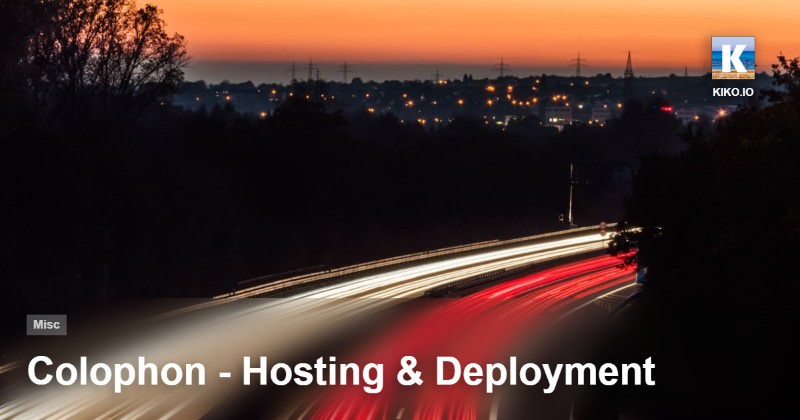
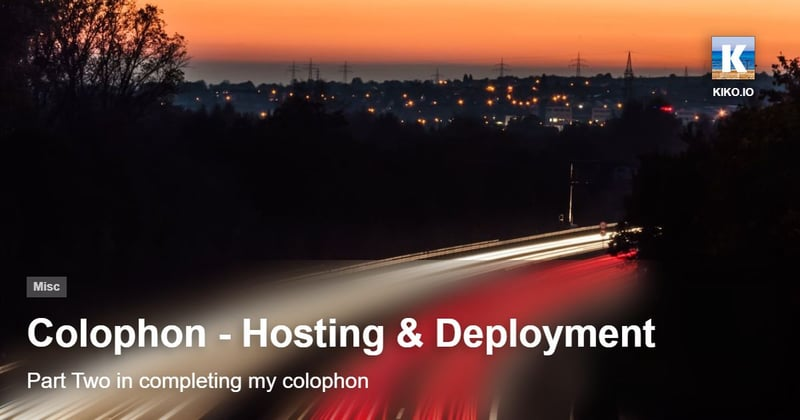
...

Changed region(s): [[0.0312, 0.619, 0.8438, 0.9595], [0.0312, 0.65, 0.0938, 0.7119]]

diff --git a/themes/landscape/source/js/dialog.js b/themes/landscape/source/js/dialog.js
@@ -132,7 +132,7 @@ var dpDialog = {
     secJSONLD.append($(tPerson));
 
     let secCode = $('<section></section>').appendTo(dpDialog.base.content);
-    secCode.append('<h1>JSON-LD</h1>');
+    secCode.append('<h5 style="margin-bottom: 1rem;">JSON-LD</h5>');
     secCode.append('<pre class="json">' + syntaxHighlight(JSON.stringify(json, undefined, 2))) + '</pre>';
 
     dpDialog.base.show();

diff --git a/themes/landscape/source/css/header.css b/themes/landscape/source/css/header.css
@@ -197,7 +197,8 @@ header.photograph #header-photo-link strong {
   margin: 0 var(--space-normal);
 }
 
-body #progress {
+body.article-view #progress,
+body.note-view #progress {
   position: absolute;
   width: 100%;
   height: 4px;

diff --git a/source/_posts/2025/Colophon-Writing.md b/source/_posts/2025/Colophon-Writing.md
@@ -1,7 +1,7 @@
 ---
 slug: Colophon-Writing
 title: Colophon - Writing
-subtitle:
+subtitle: Part Three in completing my colophon
 date: 2025-05-29 19:42:12
 photograph:
   file: 23-05-Holland-0453.jpg
@@ -21,14 +21,6 @@ syndication:
   - host: Mastodon
     url: https://indieweb.social/@kiko/114592849975633469
 ---
-
-{% alertbox info %}
-This is the third post in completing my [colophon](/Colophon).
-{% endalertbox %}
-
----
-
-## Writing
 
 I write my posts mainly in my favorite editor, [**Visual Studio Code**](https://code.visualstudio.com/), where I also develop all infrastructure code related to my SSG Hexo. This is the only place where I can start the whole thing and see if it works. The only exception is Android on my smartphone, as there is no reasonable VS Code-like solution for this. Here, I switch to [**Obsidian**](https://obsidian.md/), my central knowledge base. All drafts and posts that have already been created are automatically synchronized to my Obsidian vault, which also lives on OneDrive, using [**SyncBack Pro**](https://www.2brightsparks.com/syncback/sbpro.html) whenever changes are made. On Android, [**OneSync**](https://play.google.com/store/apps/details?id=com.ttxapps.onesyncv2) takes care of this job. This means that I also have everything automatically on my smartphone.
 

diff --git a/source/_posts/2025/Colophon-Impetus-Technology.md b/source/_posts/2025/Colophon-Impetus-Technology.md
@@ -1,7 +1,7 @@
 ---
 slug: Colophon-Impetus-Technology
 title: Colophon - Impetus & Technology
-subtitle:
+subtitle: Part One in completing my colophon
 date: 2025-04-21 12:32:00
 photograph:
   file: DSC_6766.jpg
@@ -21,10 +21,6 @@ syndication:
   - host: Mastodon
     url: https://indieweb.social/@kiko/114376388233094484
 ---
-
-{% alertbox info %}
-This is the first post in completing my [colophon](/Colophon).
-{% endalertbox %}
 
 Ever since I introduced [Slash Pages](/slashes) on my blog about a year ago, the entry "**Colophon**" has been bumming around in my to-do list. Intended to describe how this blog works and how I deal with it, this endeavor has taken on such proportions in my head that the "coming soon" sticker has become very resistant. I would now like to counter this with a new strategy: write it in chunks. I'm going to tackle the individual sections in a loose sequence, starting with the why and the choice of technology ...
 

diff --git a/source/_posts/2025/Colophon-Hosting-Deployment.md b/source/_posts/2025/Colophon-Hosting-Deployment.md
@@ -1,7 +1,7 @@
 ---
 slug: Colophon-Hosting-Deployment
 title: Colophon - Hosting & Deployment
-subtitle: 
+subtitle: Part Two in completing my colophon
 date: 2025-05-02 18:04:00
 photograph:
   file: DSC_9332.jpg
@@ -21,14 +21,6 @@ syndication:
   - host: Mastodon
     url: https://indieweb.social/@kiko/114439959438360765
 ---
-
-{% alertbox info %}
-This is the second post in completing my [colophon](/Colophon).
-{% endalertbox %}
-
----
-
-## Hosting
 
 I host the entire blog publicly on [**GitHub**](https://github.com/kristofzerbe/kiko.io) and thus commit every change, be it a code adjustment or a new post. Web hosting is handled by [**GitHub Pages**](https://pages.github.com/) via the address [https://kristofzerbe.github.io/kiko.io](https://kristofzerbe.github.io/kiko.io), to which I have bound my domain kiko.io via DNS entries.
 

diff --git a/source/_posts/2025/Colophon-Special-Pages.md b/source/_posts/2025/Colophon-Special-Pages.md
@@ -1,7 +1,7 @@
 ---
 slug: Colophon-Special-Pages
 title: Colophon - Special Pages
-subtitle:
+subtitle: Part Four in completing my colophon
 date: 2025-07-29 17:34:50
 photograph:
   file: 22-08-Bretagne-Jersey-0210.jpg
@@ -21,10 +21,6 @@ syndication:
   - host: Mastodon
     url: https://indieweb.social/@kiko/114937732276245938
 ---
-
-{% alertbox info %}
-This is the fourth post in completing my [colophon](/Colophon).
-{% endalertbox %}
 
 Of course, a blog is primarily intended for publishing articles, but to offer added value, these websites usually consist not only of the article pages themselves, but also of index pages, search pages, and other features, depending on the whims of the author and website developer. This site also has these special pages, which I will explain in this issue of my short series.
 
